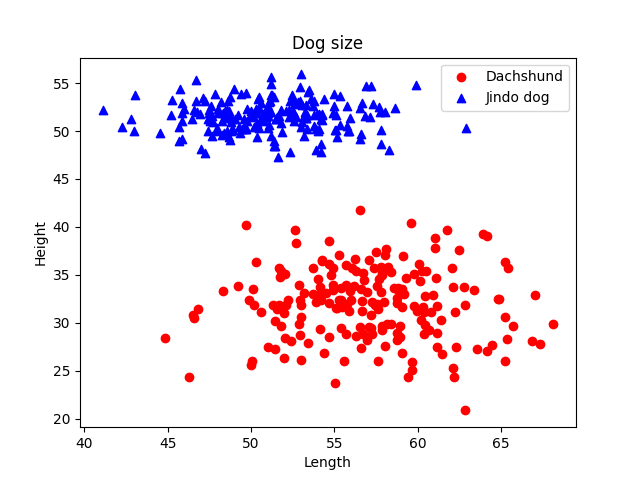
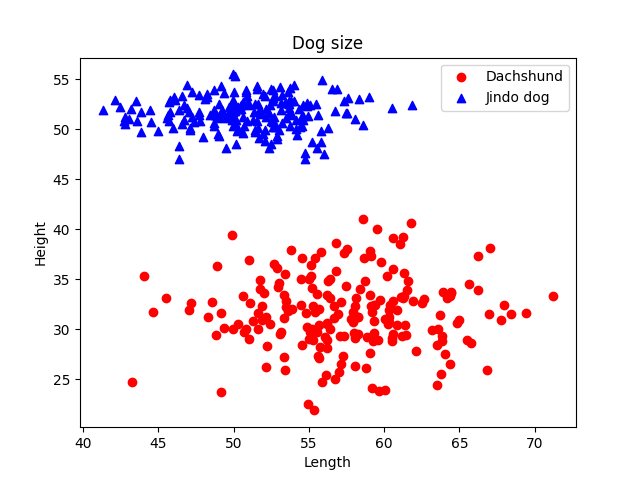
Add dog data generation and SVM classification example
- Implemented a function to generate synthetic dog data based on initial lengths and heights.
- Created datasets for Dachshund and Jindo dog breeds with labels.
- Split the dataset into training and testing sets using train_test_split.
- Built a pipeline with StandardScaler and LinearSVC for classification.
- Evaluated model accuracy and saved a scatter plot of dog sizes.

diff --git a/deeplearning/ML2/quiz3.py b/deeplearning/ML2/quiz3.py
@@ -1,57 +1,66 @@
 import numpy as np
 
+def generate_dog_data(initial_lengths, initial_heights, label, num_samples=200):
+    """
+    초기 데이터를 바탕으로 정규분포를 따르는 가상 데이터(200개)를 생성.
+    """
+    # 평균과 표준편차 계산
+    length_mean = np.mean(initial_lengths)
+    height_mean = np.mean(initial_heights)
+    length_std = np.std(initial_lengths)
+    height_std = np.std(initial_heights)
+
+    # 정규분포를 이용해 새로운 데이터 생성
+    new_lengths = np.random.normal(length_mean, length_std, num_samples)
+    new_heights = np.random.normal(height_mean, height_std, num_samples)
+
+    # 데이터와 레이블 생성
+    data = np.column_stack((new_lengths, new_heights))
+    labels = np.full(len(data), label)
+    
+    return data, labels, new_lengths, new_heights
+
 # 닥스훈트의 길이와 높이 데이터
-dach_length_tyny = [55, 57, 64, 63, 58, 49, 54, 61]
-dach_height_tyny = [30, 31, 36, 30, 33, 25, 37, 34]
+dach_length_tiny = [55, 57, 64, 63, 58, 49, 54, 61]
+dach_height_tiny = [30, 31, 36, 30, 33, 25, 37, 34]
+
 # 진돗개의 길이와 높이 데이터
-jin_length_tyny = [56, 47, 56, 46, 49, 53, 52, 48]
-jin_height_tyny = [52, 52, 50, 53, 50, 53, 49, 54]
-
-dach_length_mean = np.mean(dach_length_tyny)
-dach_height_mean = np.mean(dach_height_tyny)
-jin_length_mean = np.mean(jin_length_tyny)
-jin_height_mean = np.mean(jin_height_tyny)
-
-dach_length_std = np.std(dach_length_tyny)
-dach_height_std = np.std(dach_height_tyny)
-jin_length_std = np.std(jin_length_tyny)
-jin_height_std = np.std(jin_height_tyny)
-
-dach_length=np.random.normal(dach_length_mean,dach_length_std,200)
-dach_height=np.random.normal(dach_height_mean,dach_height_std,200)
-jin_length=np.random.normal(jin_length_mean,jin_length_std,200)
-jin_height=np.random.normal(jin_height_mean,jin_height_std,200)
-
-d_data = np.column_stack((dach_length, dach_height))
-d_label = np.zeros(len(d_data))   # 닥스훈트는 0으로 레이블링
-
-j_data = np.column_stack((jin_length, jin_height))
-j_label = np.ones(len(j_data))   # 진돗개는 1로 레이블링
+jin_length_tiny = [56, 47, 56, 46, 49, 53, 52, 48]
+jin_height_tiny = [52, 52, 50, 53, 50, 53, 49, 54]
 
 #print(d_data)
 #print(d_label)
 #print(j_data)
 #print(j_label)
 
+d_data, d_label, dach_length, dach_height = \
+    generate_dog_data(dach_length_tiny, dach_height_tiny, 0) # 닥스훈트는 0으로 레이블링
+j_data, j_label, jin_length, jin_height = \
+    generate_dog_data(jin_length_tiny, jin_height_tiny, 1) # 진돗개는 1로 레이블링
+
+# 닥스훈트와 진돗개 데이터를 합쳐 전체 데이터셋 생성
 dogs = np.concatenate((d_data, j_data))
 labels = np.concatenate((d_label, j_label))
 dog_classes = {0:'닥스훈트', 1:'진돗개'}
 #print(dogs)
 #print(labels)
-from sklearn.model_selection import train_test_split
-X_train, X_test, y_train, y_test = train_test_split(dogs, labels, test_size=0.2, random_state=42)
+
+from sklearn.model_selection import train_test_split # 데이터 분할
+X_train, X_test, y_train, y_test = \
+    train_test_split(dogs, labels, test_size=0.2, random_state=42)
+    # 데이터셋을 훈련용과 테스트용으로 분할. 8:2 비율, random_state는 난수 시드
 
 from sklearn.neighbors import KNeighborsClassifier
-k=3
-knn=KNeighborsClassifier(n_neighbors=k)
-knn.fit(X_train, y_train)
+k=3 # 인접 데이터의 개수
+knn=KNeighborsClassifier(n_neighbors=k) #k-NN 분류기 생성
+knn.fit(X_train, y_train) # 모델 학습
 
 # 테스트 데이터로 모델 정확도 평가
 score = knn.score(X_test, y_test)
-print(f'모델의 정확도: {score:.2f}')
+print(f'SVM 모델의 정확도: {score:.2f}')
 
+# 출력 및 저장
 import matplotlib.pyplot as plt
-
 plt.scatter(dach_length, dach_height, c='r', label='Dachshund')
 plt.scatter(jin_length, jin_height,c='b',marker='^', label='Jindo dog')
 

diff --git a/deeplearning/ML2/quiz1.py b/deeplearning/ML2/quiz1.py
@@ -1,5 +1,10 @@
 import numpy as np
 
+def prepare_data(length, height, label):
+    data = np.column_stack((length, height))
+    labels = np.full(len(data), label)
+    return data, labels
+
 # 닥스훈트의 길이와 높이 데이터
 dach_length = [55, 57, 64, 63, 58, 49, 54, 61]
 dach_height = [30, 31, 36, 30, 33, 25, 37, 34]
@@ -7,11 +12,8 @@ dach_height = [30, 31, 36, 30, 33, 25, 37, 34]
 jin_length = [56, 47, 56, 46, 49, 53, 52, 48]
 jin_height = [52, 52, 50, 53, 50, 53, 49, 54]
 
-d_data = np.column_stack((dach_length, dach_height))
-d_label = np.zeros(len(d_data))   # 닥스훈트는 0으로 레이블링
-
-j_data = np.column_stack((jin_length, jin_height))
-j_label = np.ones(len(j_data))   # 진돗개는 1로 레이블링
+d_data, d_label = prepare_data(dach_length, dach_height, 0)   # 닥스훈트는 0으로 레이블링
+j_data, j_label = prepare_data(jin_length, jin_height, 1)   # 진돗개는 1로 레이블링
 
 #print(d_data)
 #print(d_label)
@@ -26,7 +28,7 @@ j_label = np.ones(len(j_data))   # 진돗개는 1로 레이블링
  [49 25]
  [54 37]
  [61 34]]
-[0. 0. 0. 0. 0. 0. 0. 0.]
+[0 0 0 0 0 0 0 0]
 [[56 52]
  [47 52]
  [56 50]
@@ -35,13 +37,14 @@ j_label = np.ones(len(j_data))   # 진돗개는 1로 레이블링
  [53 53]
  [52 49]
  [48 54]]
-[1. 1. 1. 1. 1. 1. 1. 1.]
+ [1 1 1 1 1 1 1 1]
 '''
+# 닥스훈트와 진돗개 데이터를 합쳐 전체 데이터셋 생성
 dogs = np.concatenate((d_data, j_data))
 labels = np.concatenate((d_label, j_label))
 dog_classes = {0:'닥스훈트', 1:'진돗개'}
 #print(dogs)
-#print(labels)
+print(labels)
 '''
 [[55 30]
  [57 31]
@@ -59,22 +62,26 @@ dog_classes = {0:'닥스훈트', 1:'진돗개'}
  [53 53]
  [52 49]
  [48 54]]
-[0. 0. 0. 0. 0. 0. 0. 0. 1. 1. 1. 1. 1. 1. 1. 1.]
+[0 0 0 0 0 0 0 0 1 1 1 1 1 1 1 1]
 '''
 from sklearn.neighbors import KNeighborsClassifier
-k=3
-knn=KNeighborsClassifier(n_neighbors=k)
-knn.fit(dogs, labels)
+k=3 # 인접 데이터의 개수
+knn=KNeighborsClassifier(n_neighbors=k) #k-NN 분류기 생성
+knn.fit(dogs, labels) # 모델 학습
 
-#숙제1
-#가까운 이웃을 시각화하자
-newdata = [[59, 35]]
-y_pred = knn.predict(newdata)
-print('데이터', newdata, ', 판정 결과:', dog_classes[y_pred[0]])
+'''숙제1
+가까운 이웃을 시각화하자
+'''
+
+newdata = [[59, 35]] # 새 데이터
+y_pred = knn.predict(newdata) # 새 데이터에 대한 분류 예측
+print('데이터', newdata, ', 판정 결과:', dog_classes[y_pred[0]]) #새 데이터와 판정 결과 출력
+
 '''위 코드의 결과를 바탕으로 다음과 같이 [[59, 35]]에 대한
 분류 결과를 시작적으로 나타내도록 하지. 초록색의 세모 점이
 이 데이터이며 이 데이터와 이웃한 세 개의 데이터를 주황색으로 
 나타내도록 하자'''
+
 import matplotlib.pyplot as plt
 
 plt.scatter(dach_length, dach_height, c='r', label='Dachshund')
@@ -95,10 +102,10 @@ near_idx = np.argsort(distance_square)[:k]
 
 # 가까운 이웃들을 주황색으로 표시
 for i in near_idx:
-    plt.scatter(dogs[i][0], dogs[i][1], s=200, c='orange', marker='*')
+    plt.scatter(dogs[i][0], dogs[i][1], s=200, c='orange', marker='*') # 가까운 이웃의 표식은 별(star)로 설정하고, 색깔은 주황색으로
 
 # 새 데이터의 표식은 삼각형(triangle)으로 설정하고, 레이블은 new Data로
-plt.scatter(newdata[0][0], newdata[0][1], s=100, marker='^', c='g', label='new Data')
+plt.scatter(newdata[0][0], newdata[0][1], s=100, marker='^', c='g', label='new Data') # 초록색
 
 plt.savefig('quiz1.png')
 print("그래프가 'quiz1.png' 파일로 저장되었습니다.")

diff --git a/deeplearning/ML2/quiz3-1.py b/deeplearning/ML2/quiz3-1.py
@@ -10,9 +10,9 @@ def generate_dog_data(initial_lengths, initial_heights, label, num_samples=200):
     length_std = np.std(initial_lengths)
     height_std = np.std(initial_heights)
 
-    # 정규분포를 이용해 새로운 데이터 생성
-    new_lengths = np.random.normal(length_mean, length_std, num_samples)
-    new_heights = np.random.normal(height_mean, height_std, num_samples)
+    # 정규분포를 이용해 새로운 데이터 생성(표준편차를 3배로 늘려서 에러를 넣어 줌)
+    new_lengths = np.random.normal(length_mean, 3*length_std, num_samples)
+    new_heights = np.random.normal(height_mean, 3*height_std, num_samples)
 
     # 데이터와 레이블 생성
     data = np.column_stack((new_lengths, new_heights))
@@ -33,7 +33,6 @@ jin_height_tiny = [52, 52, 50, 53, 50, 53, 49, 54]
 #print(j_data)
 #print(j_label)
 
-
 d_data, d_label, dach_length, dach_height = \
     generate_dog_data(dach_length_tiny, dach_height_tiny, 0) # 닥스훈트는 0으로 레이블링
 j_data, j_label, jin_length, jin_height = \
@@ -46,24 +45,22 @@ dog_classes = {0:'닥스훈트', 1:'진돗개'}
 #print(dogs)
 #print(labels)
 
+from sklearn.model_selection import train_test_split # 데이터 분할
+X_train, X_test, y_train, y_test = \
+    train_test_split(dogs, labels, test_size=0.2, random_state=42)
+    # 데이터셋을 훈련용과 테스트용으로 분할. 8:2 비율, random_state는 난수 시드
+
 from sklearn.neighbors import KNeighborsClassifier
 k=3 # 인접 데이터의 개수
 knn=KNeighborsClassifier(n_neighbors=k) #k-NN 분류기 생성
-knn.fit(dogs, labels) # 모델 학습
+knn.fit(X_train, y_train) # 모델 학습
 
-'''숙제1
-가까운 이웃을 시각화하자
-'''
-newdata = [[59, 35]] # 새 데이터
-y_pred = knn.predict(newdata) # 새 데이터에 대한 분류 예측
-print('데이터', newdata, ', 판정 결과:', dog_classes[y_pred[0]]) #새 데이터와 판정 결과 출력
-'''위 코드의 결과를 바탕으로 다음과 같이 [[59, 35]]에 대한
-분류 결과를 시작적으로 나타내도록 하지. 초록색의 세모 점이
-이 데이터이며 이 데이터와 이웃한 세 개의 데이터를 주황색으로 
-나타내도록 하자'''
+# 테스트 데이터로 모델 정확도 평가
+score = knn.score(X_test, y_test)
+print(f'K-NN모델의 정확도: {score:.2f}')
 
+# 출력 및 저장
 import matplotlib.pyplot as plt
-
 plt.scatter(dach_length, dach_height, c='r', label='Dachshund')
 plt.scatter(jin_length, jin_height,c='b',marker='^', label='Jindo dog')
 
@@ -72,21 +69,5 @@ plt.ylabel('Height')
 plt.title("Dog size")
 plt.legend(loc='upper right')
 
-# 새로운 데이터와 모든 개 사이의 거리 계산
-distance_square = np.sum((dogs - newdata) ** 2, axis=1)
-#print(distance_square) #[ 41  20  26  41   5 200  29   5 298 433 234 493 325 360 245 482]
-
-# 거리가 가까운 k개의 인덱스 찾기
-near_idx = np.argsort(distance_square)[:k]
-#print(near_idx) #[7 4 1]
-
-# 가까운 이웃들을 주황색으로 표시
-for i in near_idx:
-    plt.scatter(dogs[i][0], dogs[i][1], s=200, c='orange', marker='*')
-    # 가까운 이웃의 표식은 별(star)로 설정하고, 색깔은 주황색으로
-
-# 새 데이터의 표식은 삼각형(triangle)으로 설정하고, 레이블은 new Data로
-plt.scatter(newdata[0][0], newdata[0][1], s=100, marker='^', c='g', label='new Data') # 초록색
-
-plt.savefig('quiz2.png')
-print("그래프가 'quiz2.png' 파일로 저장되었습니다.")
+plt.savefig('quiz3-1.png')
+print("그래프가 'quiz3-1.png' 파일로 저장되었습니다.")

diff --git a/deeplearning/ML2/quiz4-1.py b/deeplearning/ML2/quiz4-1.py
@@ -10,9 +10,9 @@ def generate_dog_data(initial_lengths, initial_heights, label, num_samples=200):
     length_std = np.std(initial_lengths)
     height_std = np.std(initial_heights)
 
-    # 정규분포를 이용해 새로운 데이터 생성
-    new_lengths = np.random.normal(length_mean, length_std, num_samples)
-    new_heights = np.random.normal(height_mean, height_std, num_samples)
+    # 정규분포를 이용해 새로운 데이터 생성(표준편차를 3배로 늘려서 에러를 넣어 줌)
+    new_lengths = np.random.normal(length_mean, 3*length_std, num_samples)
+    new_heights = np.random.normal(height_mean, 3*height_std, num_samples)
 
     # 데이터와 레이블 생성
     data = np.column_stack((new_lengths, new_heights))
@@ -79,5 +79,5 @@ plt.ylabel('Height')
 plt.title("Dog size")
 plt.legend(loc='upper right')
 
-plt.savefig('quiz4.png')
-print("그래프가 'quiz4.png' 파일로 저장되었습니다.")
+plt.savefig('quiz4-1.png')
+print("그래프가 'quiz4-1.png' 파일로 저장되었습니다.")
